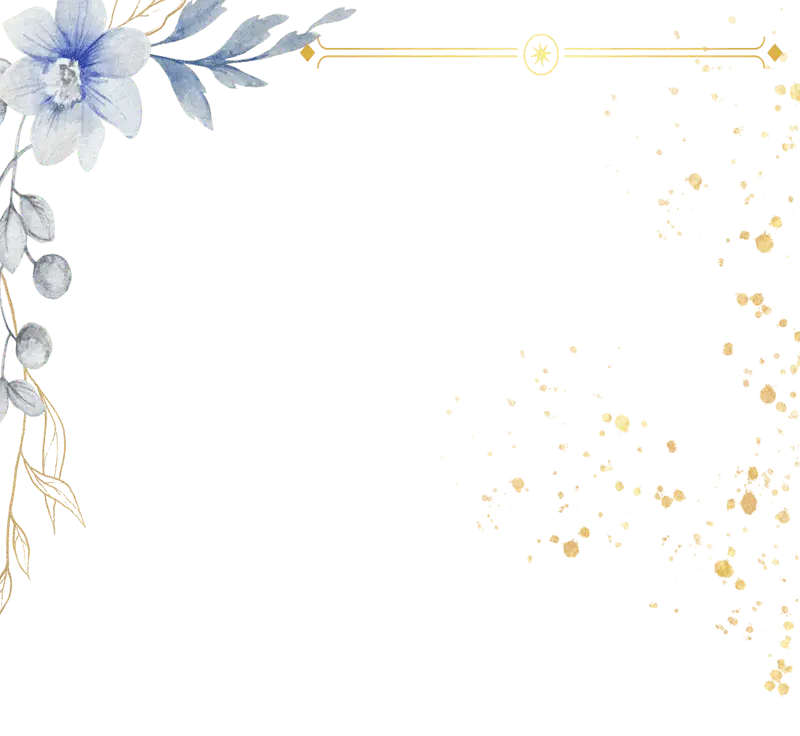
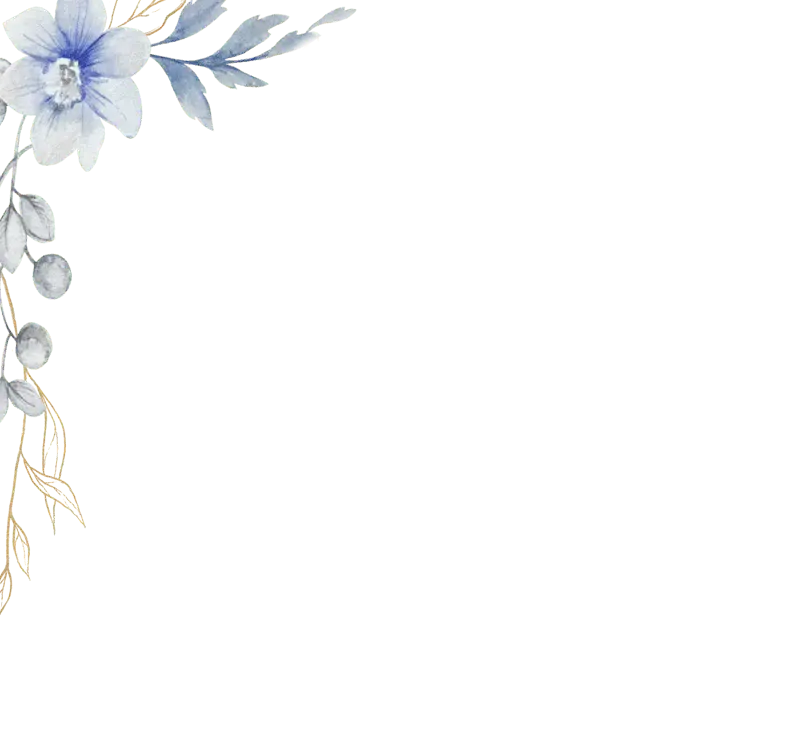
refinenow

diff --git a/index.html b/index.html
@@ -282,13 +282,13 @@
 
 
     .preloader {
-      background: url("image/backgroundcatair.webp") repeat-x;
+      /* background: url("image/backgroundcatair.webp") repeat-x; */
       max-width: 400px;
       height: calc(100% - 40px);
       /* Kurangi tinggi untuk menyisakan "wrapper" bawah */
       margin-bottom: 10px;
       /* Memberi ruang di bawah (wrapper terlihat) */
-      background-color: #f2f7ff;
+      background-color: #fdffff;
       /* border-radius: 15px; */
       box-shadow: 0 10px 30px rgba(0, 0, 0, 0.15);
       position: relative;
@@ -312,6 +312,7 @@
       background:
         url("image/Borderyuri.webp") repeat-x top center,
         url("image/borderbawahyri.webp") repeat-x bottom center;
+      
 
       /* ✅ Dua nilai: [atas], [bawah] */
       background-size:
@@ -339,6 +340,7 @@
       /* cuma layer 1 membesar */
       100% {
         background-size: 400px auto, 400px auto;
+        
       }
     }
 
@@ -491,16 +493,16 @@
           </li>
 
           <li>
-            <a href="#Waktu" class="nav__expand-link">
-              <i class="ri-calendar-line"></i>
-              <span>Tanggal</span>
+            <a href="#WaktuAkad" class="nav__expand-link">
+              <i class="ri-service-line"></i>
+              <span>Akad</span>
             </a>
           </li>
 
           <li>
-            <a href="#lokasi" class="nav__expand-link">
-              <i class="ri-send-plane-line"></i>
-              <span>Lokasi</span>
+            <a href="#Waktu" class="nav__expand-link">
+              <i class="ri-calendar-event-line"></i>
+              <span>Resepsi</span>
             </a>
           </li>
 
@@ -634,16 +636,16 @@
       <span class="space40px"></span>
       <span class="space40px"></span>
       <div data-aos="fade-up" data-aos-easing="easing">
-        <img src="image/yuri.png" class="pengantin-pp" alt="yuri">
+        <!-- <img src="image/yuri.png" class="pengantin-pp" alt="yuri"> -->
         <div class="nama-lengkap"> Yuri Pari Dinata </div>
         <p><b>Putra dari:</b><br>
-        Bpk. Syafarudin & Ibu Yufatni</p>
+          Bpk. Syafarudin & Ibu Yufatni</p>
         <div class="ampersand">&</div>
-        <img src="image/yulia.png" class="pengantin-pp" alt="yulia">
+        <!-- <img src="image/yulia.png" class="pengantin-pp" alt="yulia"> -->
         <div class="nama-lengkap"> Yulia Pertiwi </div>
         <p><b>Putri dari:</b><br>
           Bpk. Khairul Koto(Alm) & <br>Ibu
-Suharti (Almh)</p>
+          Suharti (Almh)</p>
 
       </div>
       <span class="space40px"></span>
@@ -653,13 +655,86 @@ Suharti (Almh)</p>
 
     </section>
     <!-- End regular-section-->
+
+    <section class="section-light" id="WaktuAkad">
+      <div class="container">
+
+        <!-- Judul Waktu -->
+        <div class="column is-12 has-text-centered regular-section" data-aos="fade-up" data-aos-easing="linear">
+          <h1 class="title section-title">Akad Nikah</h1>
+        </div>
+
+        <!-- Bagian Tanggal -->
+        <div class="columns is-multiline is-centered" data-aos="fade-up" data-aos-easing="linear">
+          <div class="column is-12 has-text-centered">
+            <div class="waktu tanggal-hari">Jumat</div>
+            <div class="waktu tanggal-angka">28</div>
+            <div class="waktu tanggal-bulan">November 2025</div>
+          </div>
+          <hr style="border: none; border-top: 1px solid #ccc; margin: 2rem 0;">
+          <!-- Akad -->
+          <div class="column is-4-tablet is-3-desktop has-text-centered">
+            <p class="waktu-label">Waktu Akad</p>
+            <p class="waktu-jam"><strong>09:00 WIB</strong></p>
+          </div>
+
+
+        </div>
+
+        <!-- Tombol Kalender -->
+        <div class="has-text-centered" data-aos="fade-up" data-aos-easing="linear">
+          <a href="https://calendar.google.com/calendar/render?action=TEMPLATE&text=Pernikahan+Dara+dan+Aldi&dates=20250824T020000Z/20250824T090000Z&details=Acara+Pernikahan+Dara+dan+Aldi+di+Perawang&location=Jl.Raya+Km.5+Perawang+(di+Seberang+Hotel+Highland)"
+            class="button btn-cta" target="_blank" data-aos="zoom-in">
+            <i class="fas fa-calendar-plus"></i>&nbsp;&nbsp;Save to Calendar
+          </a>
+        </div>
+
+      </div>
+
+
+
+    </section>
+    <!-- End Waktu Content -->
+
+
+    <!-- Begin Lokasi Section -->
+    <section class="hero section-darker" id="lokasiakad">
+      <div class="container">
+        <div class="column is-12 regular-section" data-aos="fade-up" data-aos-easing="easing">
+          <h1 class="title has-text-centered section-title">Lokasi Akad</h1>
+          <p class="tempat is-larger has-text-centered">
+            <b>Rumah Mempelai Pria — Jl. Sederhana (sebelah Cafe Nowwa)</b>
+            <br> (di Seberang Hotel Highland) <br> Perawang, Riau <br>
+          </p>
+
+          <div class="section-map" data-aos="fade-up" data-aos-easing="easing">
+            <div style="border:2px solid #ccc;border-radius:12px;overflow:hidden">
+              <iframe src="https://www.google.com/maps?q=Jl.+Sederhana+sebelah+Cafe+Nowwa&output=embed" width="100%"
+                height="320" style="border:0;" allowfullscreen loading="lazy">
+              </iframe>
+            </div>
+
+
+          </div>
+          <div class="space40px"></div>
+          <div class="has-text-centered" data-aos="fade-up" data-aos-easing="easing">
+            <a href="https://www.google.com/maps/search/?api=1&query=Jl.+Sederhana+sebelah+Cafe+Nowwa"
+              class="button btn-cta" target="_blank" data-aos="zoom-in">
+              <i class="fas fa-directions"></i> &nbsp;&nbsp;Lihat Maps </a>
+          </div>
+
+
+        </div>
+
+      </div>
+    </section>
     <!-- Begin Waktu Section -->
     <section class="section-light" id="Waktu">
       <div class="container">
 
         <!-- Judul Waktu -->
         <div class="column is-12 has-text-centered regular-section" data-aos="fade-up" data-aos-easing="linear">
-          <h1 class="title section-title">Save The Date!</h1>
+          <h1 class="title section-title">Resepsi</h1>
         </div>
 
         <!-- Bagian Tanggal -->
@@ -703,7 +778,7 @@ Suharti (Almh)</p>
     <section class="hero section-darker" id="lokasi">
       <div class="container">
         <div class="column is-12 regular-section" data-aos="fade-up" data-aos-easing="easing">
-          <h1 class="title has-text-centered section-title">Lokasi Acara</h1>
+          <h1 class="title has-text-centered section-title">Lokasi Resepsi</h1>
           <p class="tempat is-larger has-text-centered">
             <b>Rumah Mempelai Pria — Jl. Sederhana (sebelah Cafe Nowwa)</b>
             <br> (di Seberang Hotel Highland) <br> Perawang, Riau <br>
@@ -743,9 +818,9 @@ Suharti (Almh)</p>
         <div class="column is-12 prologaos-init aos-animate">
           <div class="slider.wrapper">
             <div class="slider">
-              <img src="image/moment.jpg" alt="futu" loading="lazy">
-              <img src="image/moment2.jpg" alt="futu 2" loading="lazy">
-              <img src="image/moment3.jpg" alt="futu 3" loading="lazy">
+              <img src="image/IMG_5315.webp" alt="futu" loading="lazy">
+              <img src="image/IMG_5314.webp" alt="futu 2" loading="lazy">
+              <!-- <img src="image/moment3.jpg" alt="futu 3" loading="lazy"> -->
             </div>
           </div>
           <br><br>
@@ -764,7 +839,7 @@ Suharti (Almh)</p>
   margin: 0 auto;
   letter-spacing: 0.3px;
     ">
-    <br><br>
+            <br><br>
             Kita dipertemukan bukan untuk sekadar berjalan berdampingan, tapi untuk saling menjadi rumah di setiap
             perjalanan
             <br><br>
@@ -772,7 +847,7 @@ Suharti (Almh)</p>
           </p>
         </div>
         <div style="display: flex; justify-content: center; align-items: center;">
-          <img src="image/flapping_bird.webp" style="width: 297px; height: 222px;" alt="Animasi WebP" loading="lazy" />
+          <img src="image/IMG_5317.webp" style="width: 297px; height: auto;" alt="Animasi WebP" loading="lazy" />
         </div>
 
 
